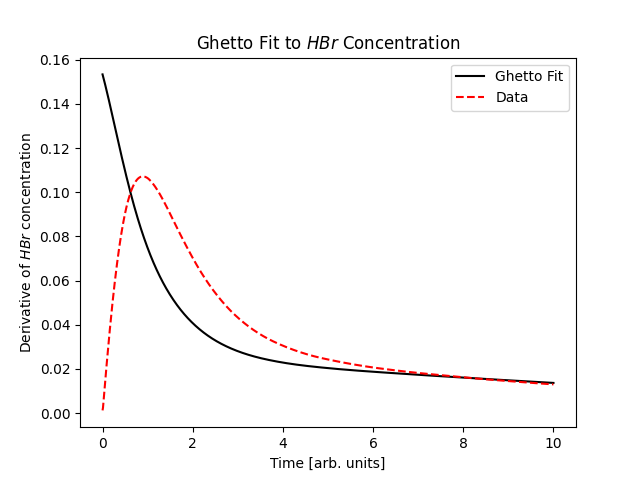
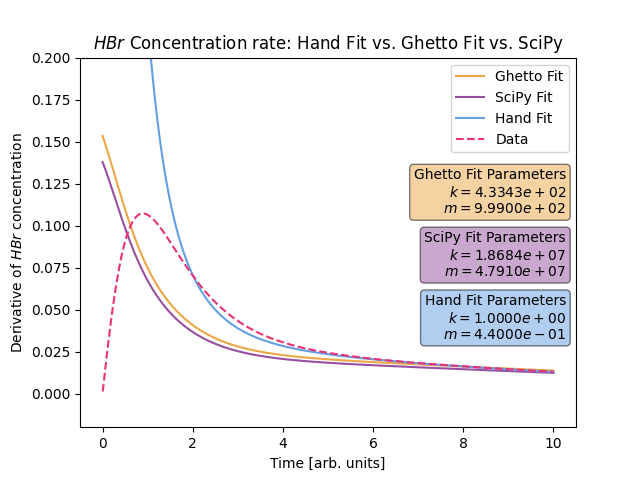
feat: :art: add fit plot

diff --git a/HydrogenFusion/Code/fit.py b/HydrogenFusion/Code/fit.py
@@ -38,7 +38,7 @@ Br = sol.y[4]
 
 derivative_HBr = np.gradient(HBr, t_eval)
 
-
+RHS = lambda m: (H2 * Br2**(3/2)) / (m*Br2 + HBr)
 arb_fit = lambda k, m: k * (H2 * Br2**(3/2)) / (m*Br2 + HBr)
 scipy_fit = lambda t, k, m: k * (H2 * Br2**(3/2)) / (m*Br2 + HBr)
 
@@ -57,27 +57,26 @@ textstr = '\n'.join((
     r'$k=%.4e$' % (opt_k, ),
     r'$m=%.4e$' % (opt_m, )))
 props = dict(boxstyle='round', facecolor='#eba646', alpha=0.5)
-plt.text(0.05, 0.95, textstr, transform=plt.gca().transAxes, fontsize=10,
-        verticalalignment='top', bbox=props)
+plt.text(0.98, 0.70, textstr, transform=plt.gca().transAxes, fontsize=10,
+        verticalalignment='top', horizontalalignment="right", bbox=props)
 textstr = '\n'.join((
     r'SciPy Fit Parameters',
     r'$k=%.4e$' % (popt[0], ),
     r'$m=%.4e$' % (popt[1], )))
 props = dict(boxstyle='round', facecolor='#9750a1', alpha=0.5)
-plt.text(0.05, 0.75, textstr, transform=plt.gca().transAxes, fontsize=10,
-        verticalalignment='top', bbox=props)
+plt.text(0.98, 0.53, textstr, transform=plt.gca().transAxes, fontsize=10,
+        verticalalignment='top', horizontalalignment="right", bbox=props)
 
 k_hand = 1
-m_hand = 0.4
+m_hand = 0.44
 
 textstr = '\n'.join((
     r'Hand Fit Parameters',
     r'$k=%.4e$' % (k_hand, ),
     r'$m=%.4e$' % (m_hand, )))
 props = dict(boxstyle='round', facecolor='#649fe3', alpha=0.5)
-plt.text(0.05, 0.55, textstr, transform=plt.gca().transAxes, fontsize=10,
-        verticalalignment='top', bbox=props)
-
+plt.text(0.98, 0.31 + 0.05, textstr, transform=plt.gca().transAxes, fontsize=10,
+        verticalalignment='top', horizontalalignment="right", bbox=props)
 
 plt.plot(t_eval, arb_fit(opt_k, opt_m), color='#eba646', label="Ghetto Fit")
 plt.plot(t_eval, fit, color='#9750a1', label="SciPy Fit")
@@ -86,5 +85,6 @@ plt.plot(t_eval, derivative_HBr, ls='--', color='#e83177', label="Data")
 plt.xlabel("Time [arb. units]")
 plt.ylabel("Derivative of $HBr$ concentration")
 plt.legend()
-plt.title("$HBr$ Concentration rate: Ghetto Fit vs. SciPy")
+plt.title("$HBr$ Concentration rate: Hand Fit vs. Ghetto Fit vs. SciPy")
+plt.ylim(-0.02, 0.2)
 plt.show()

diff --git a/HydrogenFusion/Code/helper.py b/HydrogenFusion/Code/helper.py
@@ -52,8 +52,8 @@ def distance(a, b):
 
 def find_best_fit(func, data):
     # Define the range of parameters to search over
-    k_range = np.linspace(0, 1000, 10)
-    m_range = np.linspace(0, 1000, 10)
+    k_range = np.linspace(0, 1000, 1000)
+    m_range = np.linspace(0, 1000, 1000)
 
     # Initialize the best fit parameters
     best_k = 0
